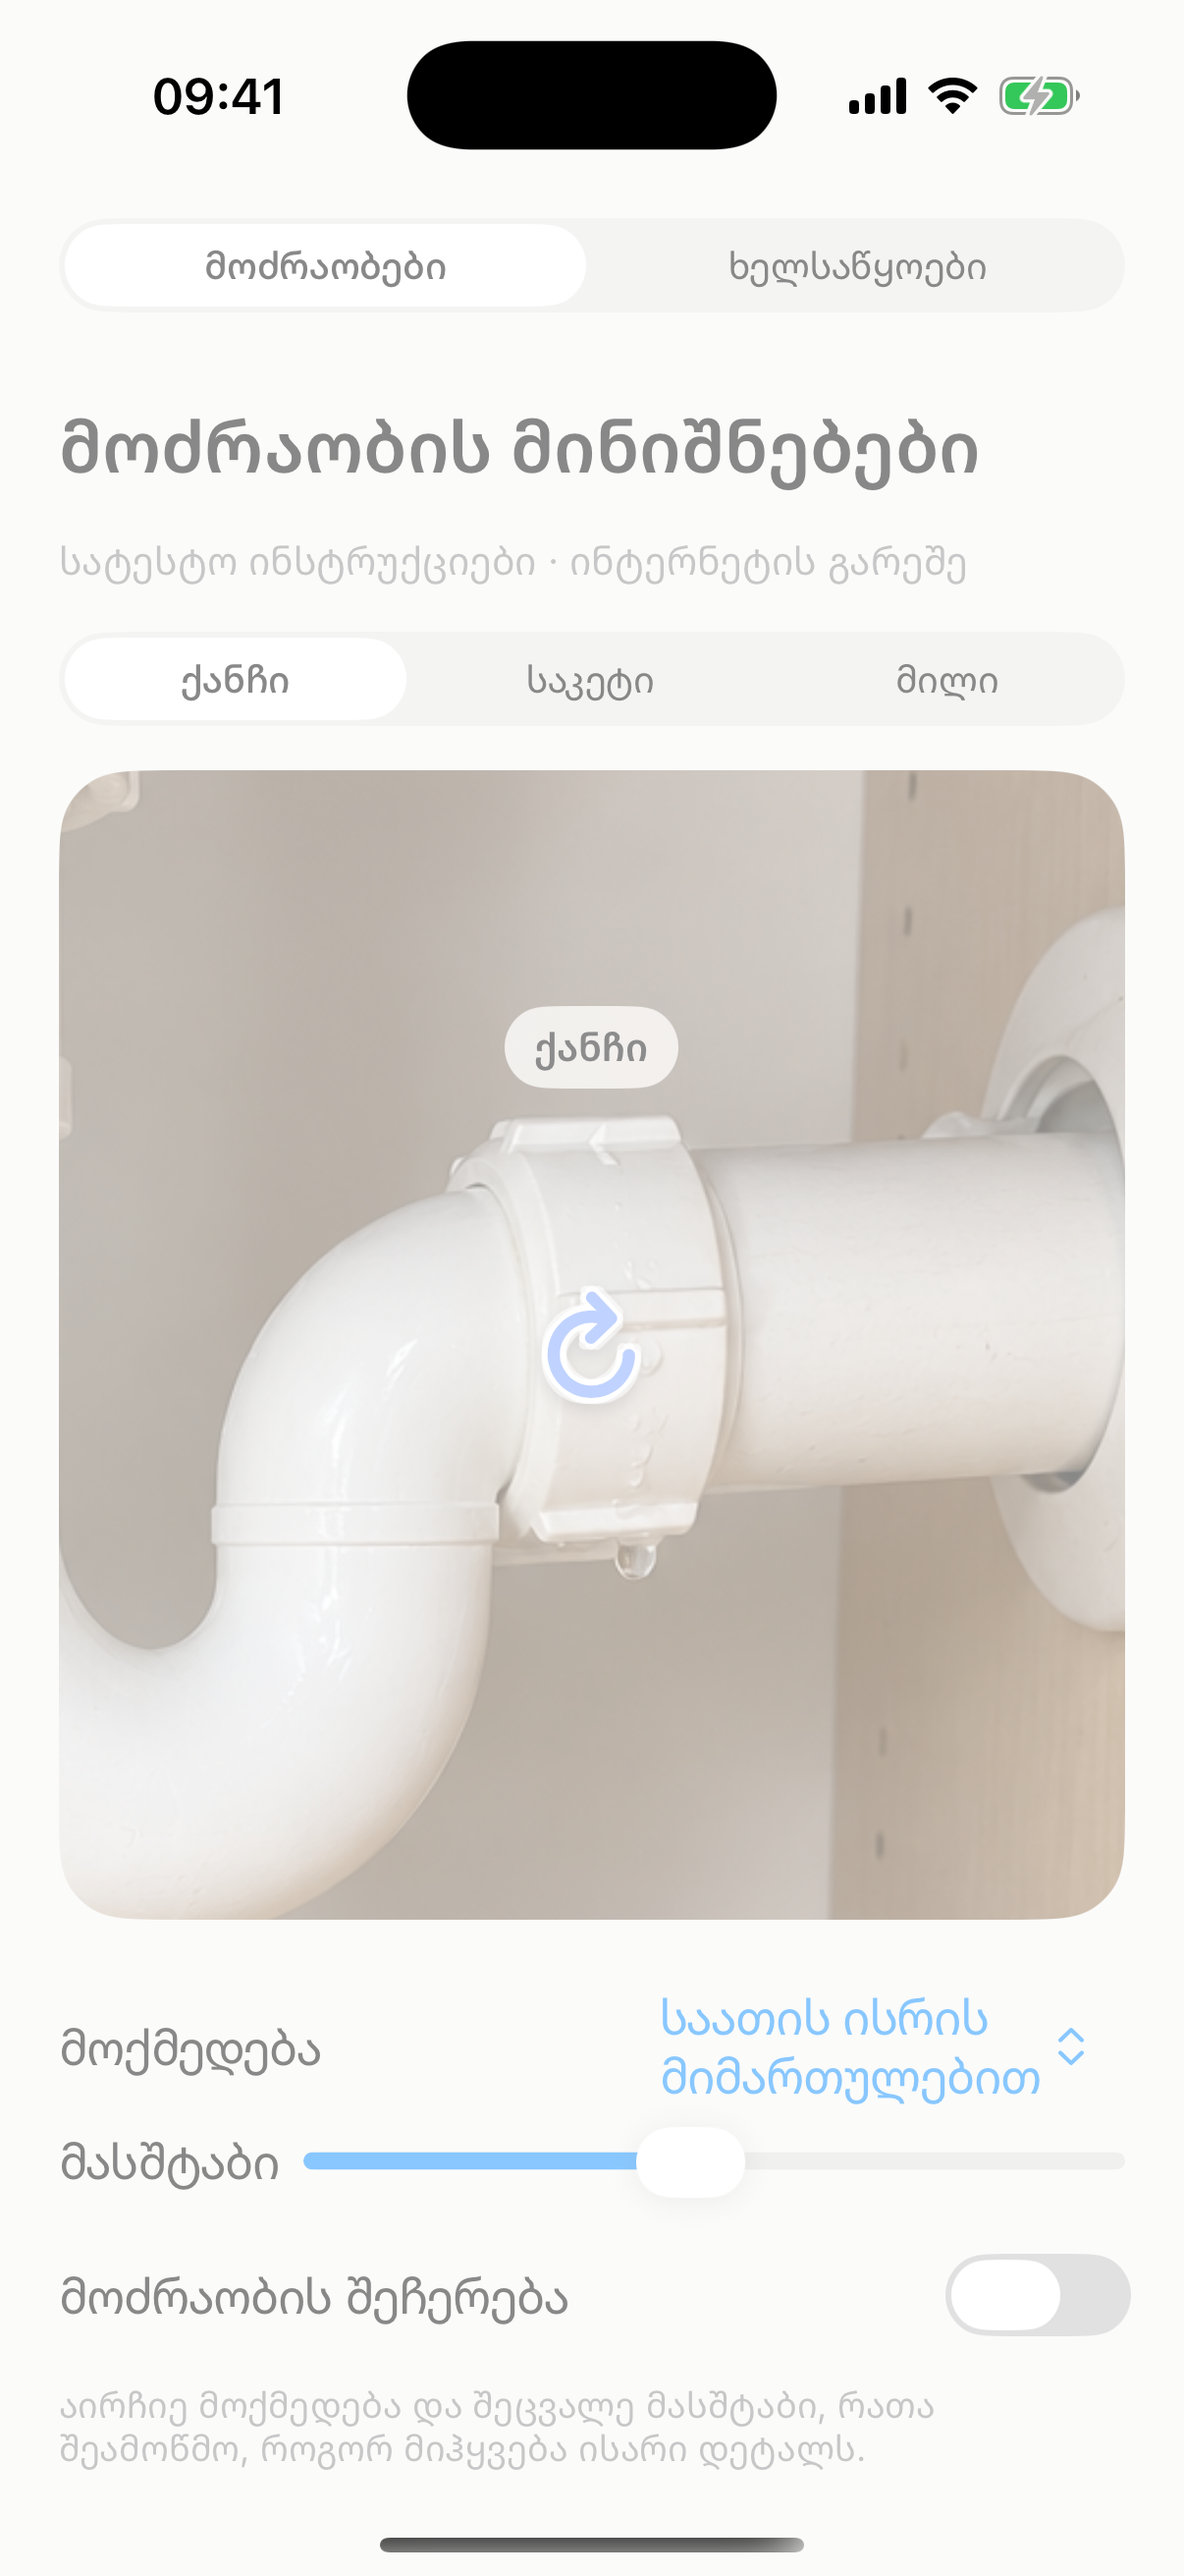
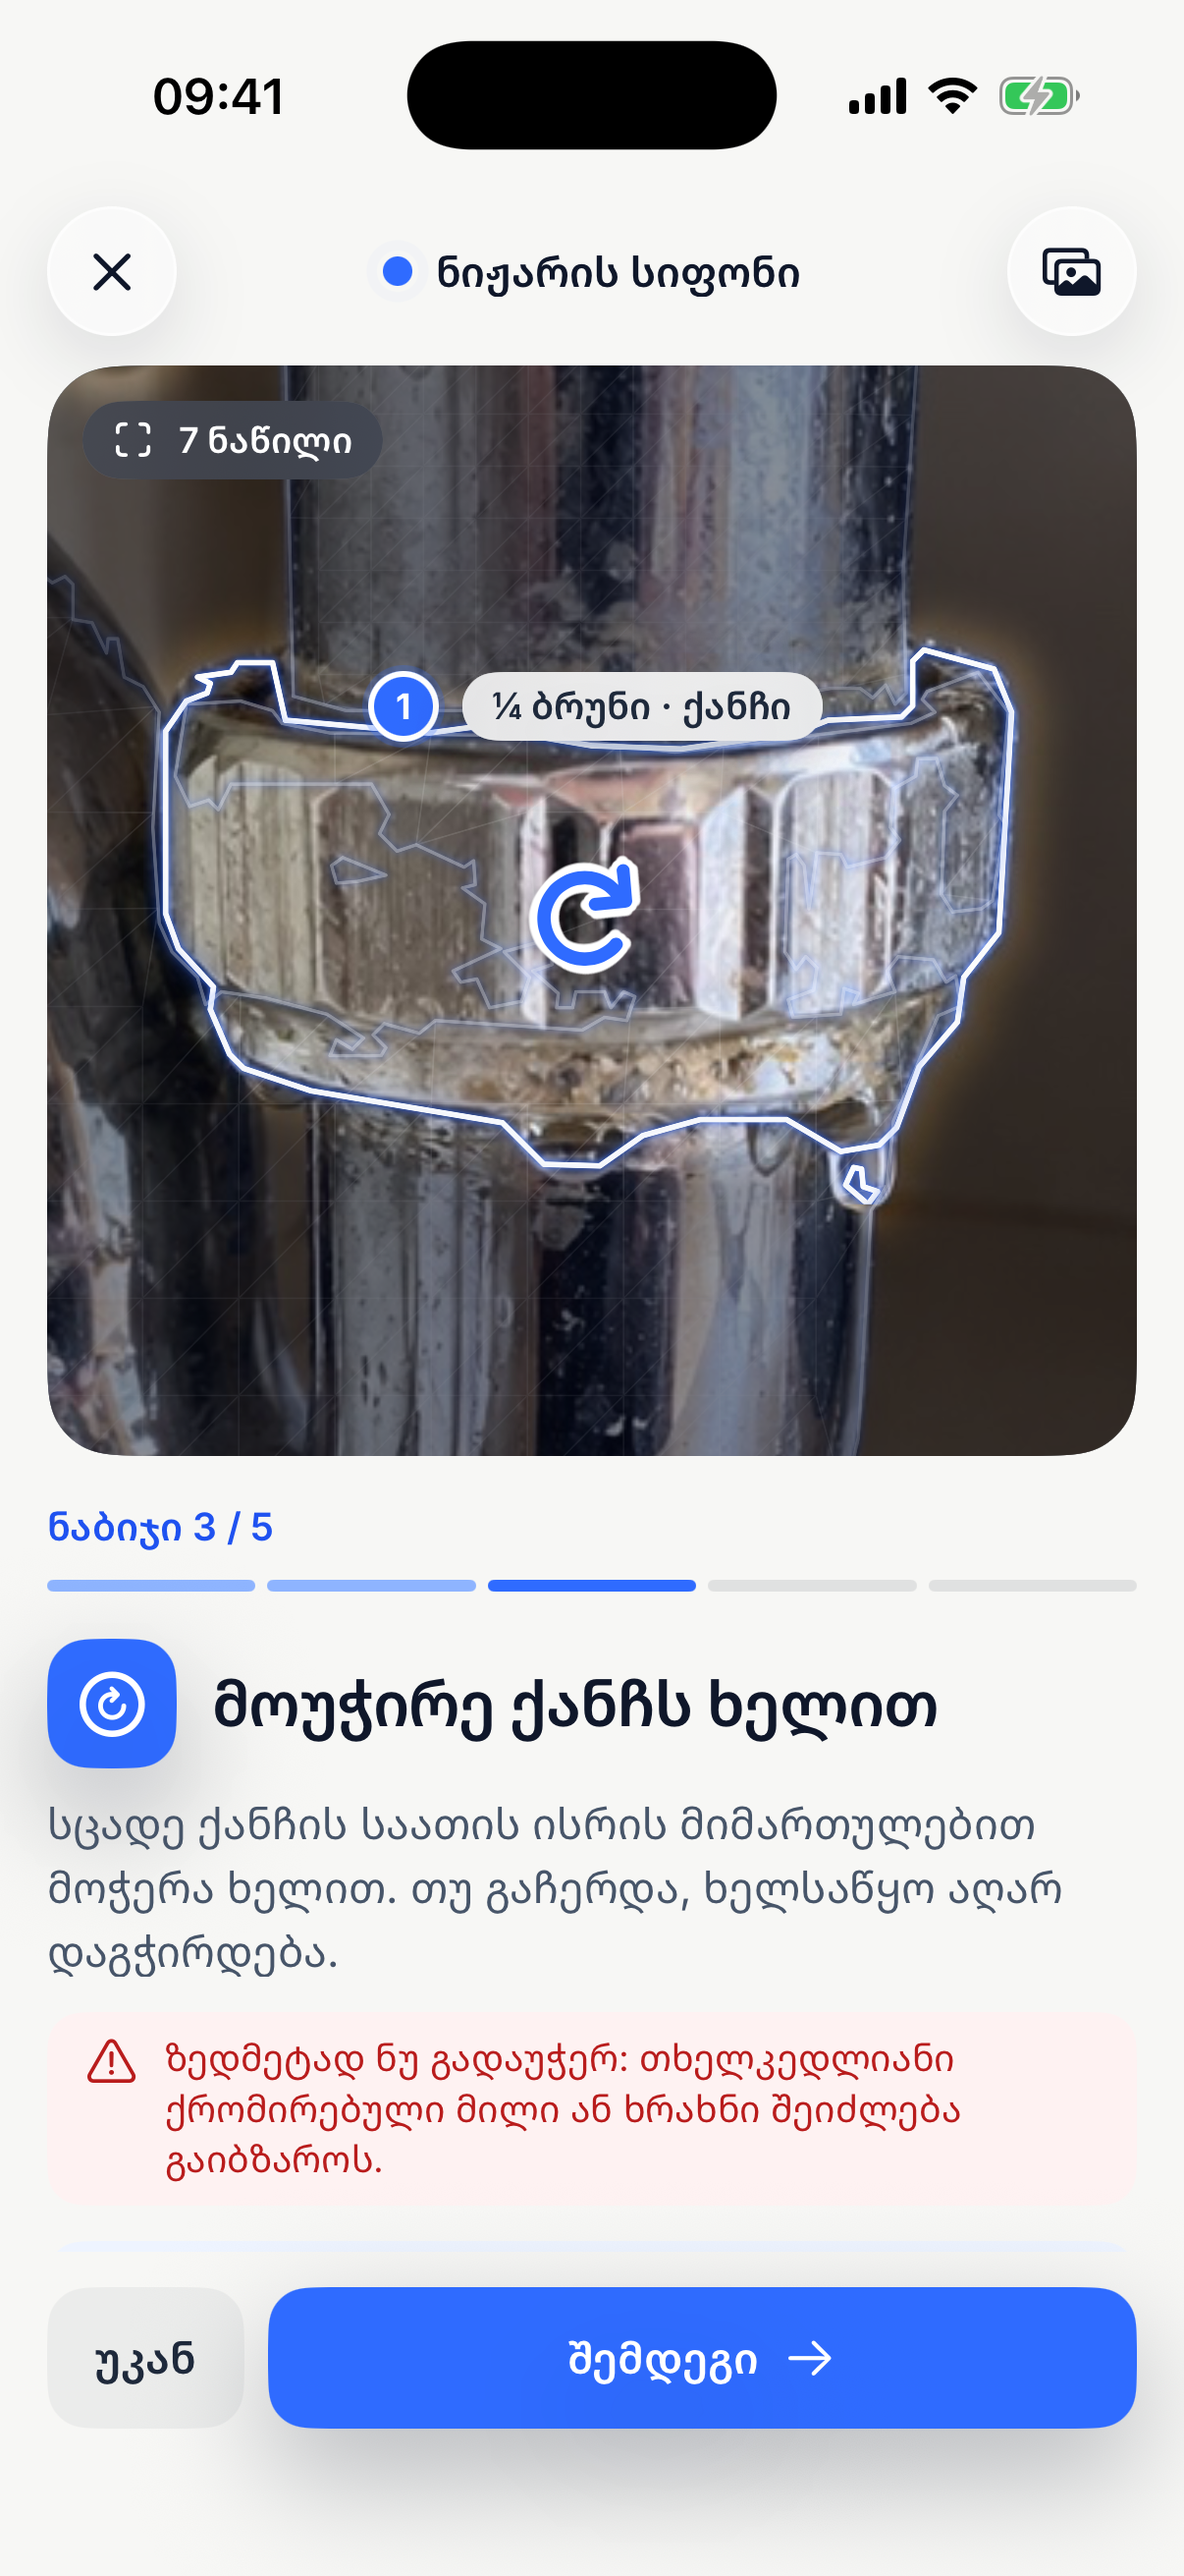
Use real AI screenshots for the landing hero, parts and arrows cards
ThreadRig-Thread: Continuing the previous session in camera. The full transcri

diff --git a/web/app/page.tsx b/web/app/page.tsx
@@ -8,8 +8,8 @@ import { useReducedMotion } from "./use-reduced-motion";
 
 const github = "https://github.com/BekaChkhiro/kadri";
 const features = [
-  { image: "parts", title: "ნაწილს ფოტოზე მონიშნავს", text: "ზუსტად დაინახავ, რომელ დეტალზეა საუბარი.", alt: "ლეპტოპის ქვედა საფარი ლურჯი ჩარჩოთი მონიშნული", position: "center 37%" },
-  { image: "arrows", title: "ისრები და ნაბიჯები", text: "მოძრაობის მიმართულება პირდაპირ შენს ფოტოზე.", alt: "სიფონის ქანჩზე ბრუნვის მიმართულების ისარი", position: "center 52%" },
+  { image: "parts", title: "ნაწილს ფოტოზე მონიშნავს", text: "ზუსტად დაინახავ, რომელ დეტალზეა საუბარი.", alt: "დედაპლატაზე მონიშნული პროცესორის ბუდე და ბერკეტი", position: "center 30%" },
+  { image: "arrows", title: "ისრები და ნაბიჯები", text: "მოძრაობის მიმართულება პირდაპირ შენს ფოტოზე.", alt: "სიფონის ქანჩზე მეოთხედი ბრუნის ისარი", position: "center 30%" },
   { image: "tools", title: "ხელსაწყოები, მინიშნებით", text: "დადასტურებული თუ სავარაუდო — განსხვავება ყოველთვის ჩანს.", alt: "ხელსაწყოების ბარათები დადასტურებული და სავარაუდო ზომებით", position: "center 28%" },
   { image: "check", title: "ფოტოთი შემოწმება", text: "ახალი ფოტო დაგეხმარება შედეგის გადამოწმებაში.", alt: "ახალი ფოტოთი შედეგის შემოწმების ეკრანი", position: "center 20%" },
 ];
@@ -57,7 +57,7 @@ export default function Home() {
           <Fade className="relative mx-auto w-[182px] p-3 md:w-[220px] md:p-4">
             <Corners />
             <div className="rounded-[27px] border border-ink-600 bg-ink-900 p-[5px] shadow-[0_16px_80px_-24px_#2f6bff55]">
-              <Image src="/shots/parts.png" alt="NETA აპი — ფოტოზე მონიშნული ნაწილი და შეკეთების ნაბიჯი" width={1170} height={2532} priority sizes="(min-width: 768px) 176px, 146px" className="h-auto w-full rounded-[21px]" />
+              <Image src="/shots/hero.png" alt="NETA აპი — დედაპლატაზე მონიშნული ბუდის ბერკეტი, ისარი და ნაბიჯი" width={1206} height={2622} priority sizes="(min-width: 768px) 176px, 146px" className="h-auto w-full rounded-[21px]" />
             </div>
           </Fade>
         </section>
